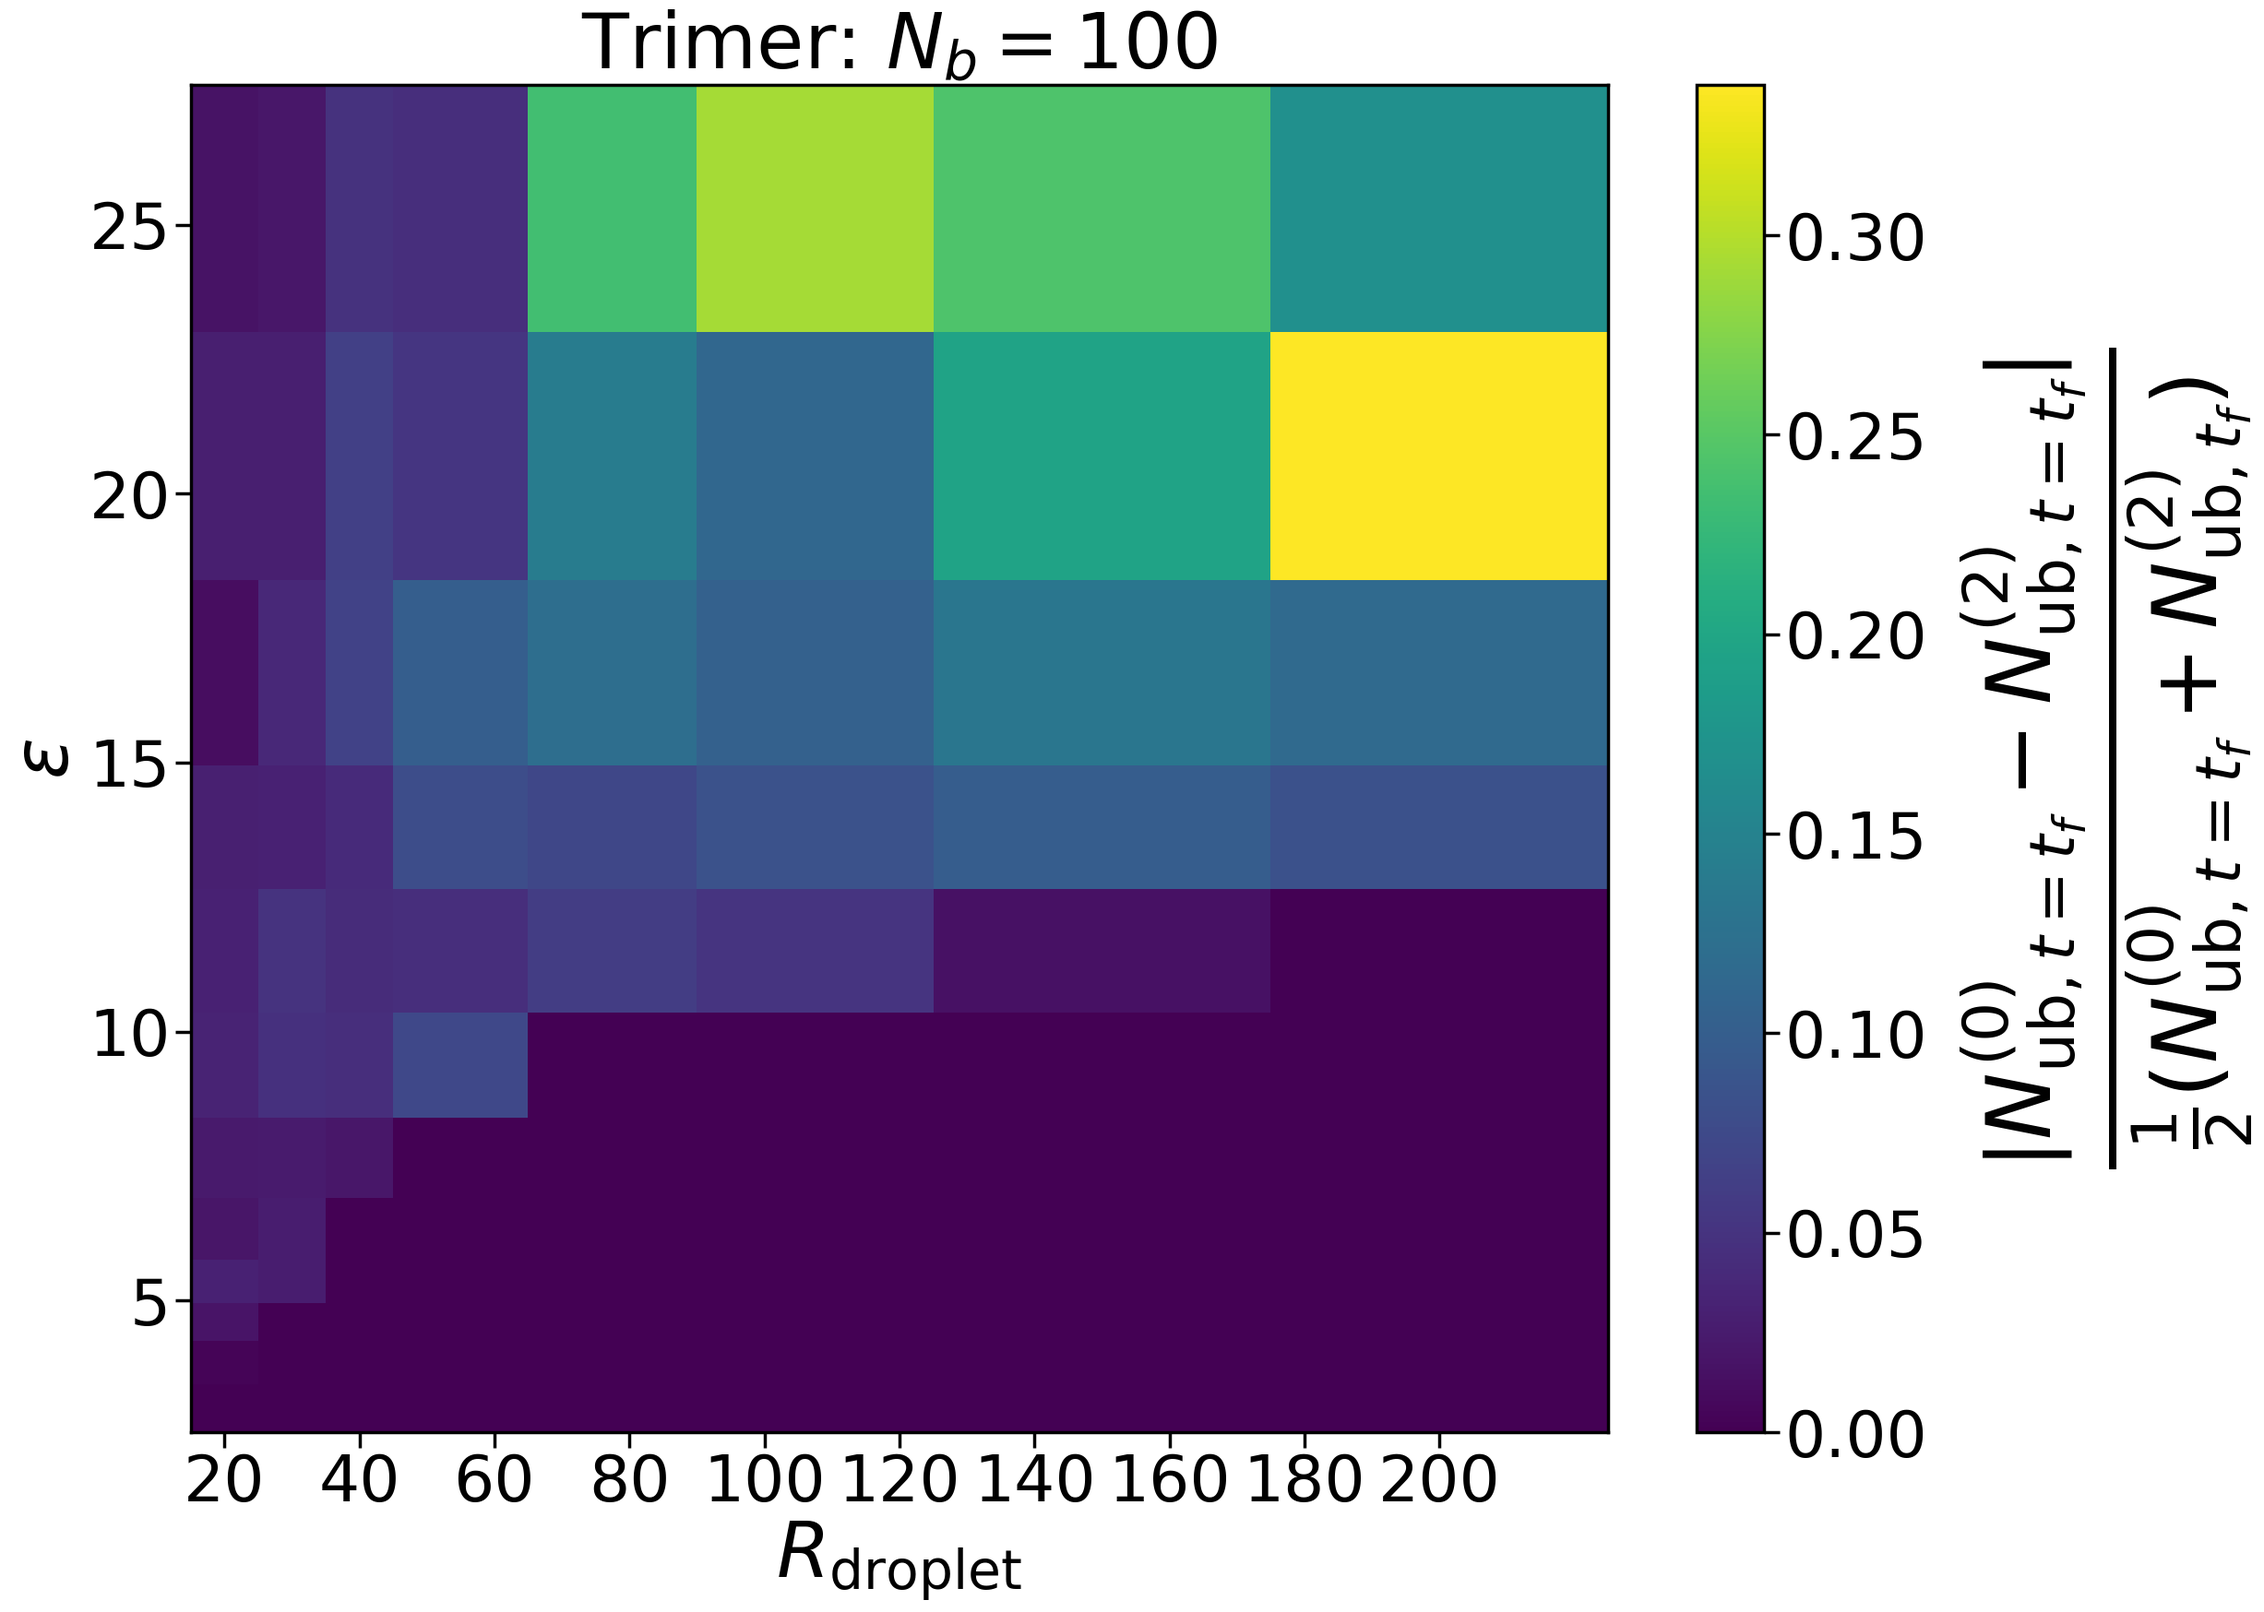
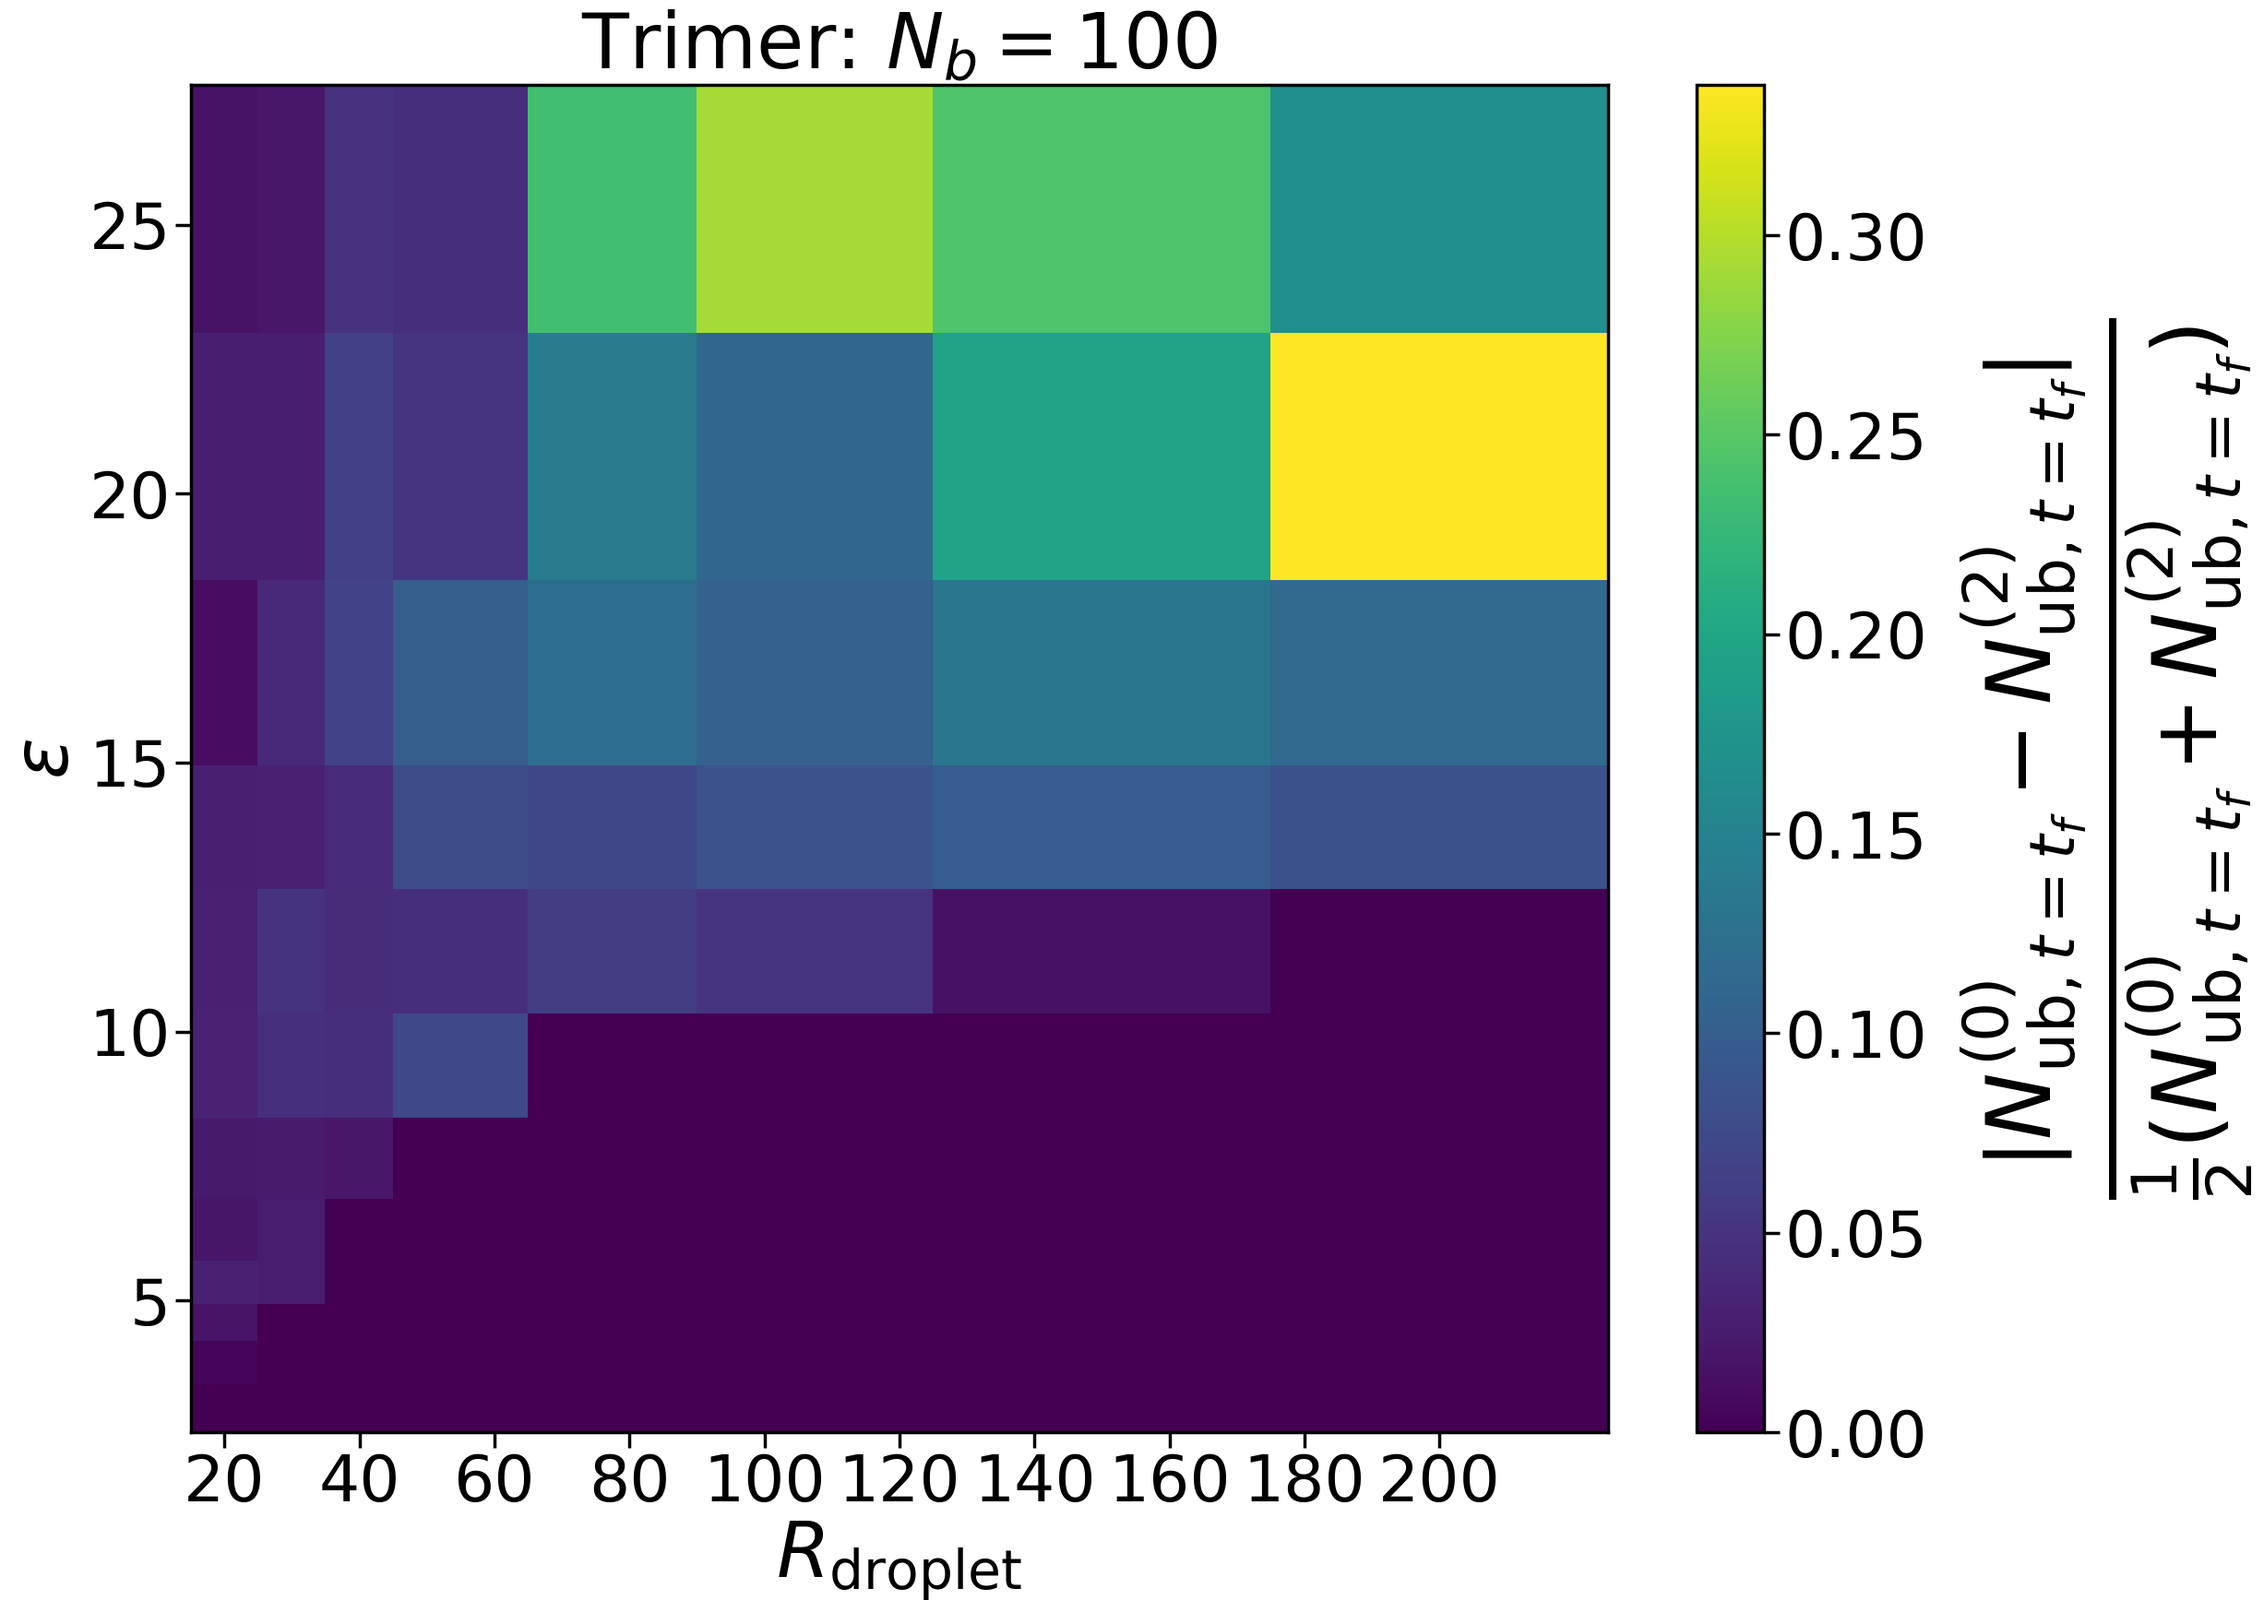
Fixed minor typo in the asymmetry fig in SI

Changed region(s): [[0.9291, 0.1854, 1.0, 0.7414]]

diff --git a/dimer_trimer/analysis/difference_in_patches_terminaldroplets_varyRandeps.py b/dimer_trimer/analysis/difference_in_patches_terminaldroplets_varyRandeps.py
@@ -89,7 +89,7 @@ def get_phasediagrams(Nclusters,r0,kAB,radiusB,dimension,kspring,gammaA,gammapat
 
     cb=fig.colorbar(im, ax=ax)
     im.set_clim(0.0,np.max(Z))
-    cb.set_label(r'$\frac{|N_{\mathrm{ub},t=t_f}^{(0)}-N_{\mathrm{ub},t=t_f}^{(2)}|}{\frac{1}{2}(N_{\mathrm{ub},t=t_f}^{(0)}+N_{\mathrm{ub},t_f}^{(2)})}$',labelpad=+25,fontsize=100)
+    cb.set_label(r'$\frac{|N_{\mathrm{ub},t=t_f}^{(0)}-N_{\mathrm{ub},t=t_f}^{(2)}|}{\frac{1}{2}(N_{\mathrm{ub},t=t_f}^{(0)}+N_{\mathrm{ub},t=t_f}^{(2)})}$',labelpad=+25,fontsize=100)
     cb.ax.tick_params(labelsize=50)
     plt.xticks(np.arange(20,220,20),fontsize=50)
     plt.yticks(np.arange(5.0,30.0,5.0),fontsize=50)
